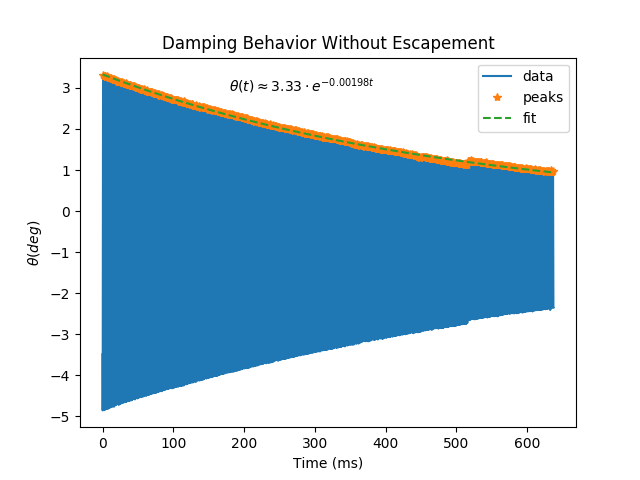
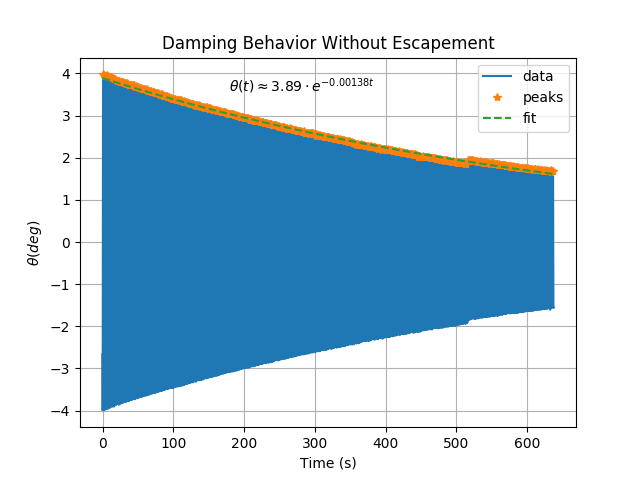
fancier plots for damp

diff --git a/apriltag/parse_3.py b/apriltag/parse_3.py
@@ -14,7 +14,7 @@ import sys
 import argparse
 from scipy.signal import find_peaks_cwt
 
-from utils import proc, rmat
+from utils import proc, rmat, plot_circle
 
 def project2d(vs, ns):
     # vs = vectors
@@ -39,16 +39,12 @@ def reorder(e1, id0):
             midx.append(i0)
     return np.int32(midx), res
 
-def hx(x):
-    #x,y,vx,vy
-    return x[:3]
-
-def fx(x, dt):
-    x,y,z,vx,vy,vz = x
-    x=x+vx*dt
-    y=y+vy*dt
-    z+y+vz*dt
-    return (x,y,z,vx,vy,vz)
+def hide_axis(ax):
+    ax.spines['top'].set_color('none')
+    ax.spines['bottom'].set_color('none')
+    ax.spines['left'].set_color('none')
+    ax.spines['right'].set_color('none')
+    ax.tick_params(labelcolor='w', top='off', bottom='off', left='off', right='off')
 
 def get_pivot_2(pts, r=343.):
     # r = 343
@@ -186,24 +182,52 @@ def plot(f):
     lpeaks = np.log(peaks) # pk(t) = -g*t + log(p0)
     g, a = np.polyfit(times, lpeaks, 1)
 
-    fig, ax = plt.subplots()
+    #fig, ax = plt.subplots()
+    fig = plt.figure()
+
+    ax = fig.add_subplot(111)
+    hide_axis(ax)
+
+    ax0 = fig.add_subplot(211)
+
     print len(th)
     print 'th0', np.max(th)
     print 'thmin', np.min(th)
-    plt.plot(t, th)
-    plt.plot(times, peaks, '*')
-    plt.plot(t, np.exp(a)*np.exp(g*t), '--')
+    ax0.plot(t, th, label='data')
+    ax0.plot(times, peaks, '*', label='peaks')
+    ax0.plot(t, np.exp(a)*np.exp(g*t), '--', label='fit')
+
+    ax0.set_xlabel('Time (s)')
+    ax0.set_ylabel(r'$\theta (deg)$')
+    ax0.legend()#['data', 'peaks', 'fit'])
+    ax0.grid()
+
+    ax10 = fig.add_subplot(223)
+    ax10.set_aspect('equal','datalim')
+    ax10.set_xlabel('x (mm)')
+    ax10.set_ylabel('y (mm)')
+    ax10.plot(x, y)
+    
+    px = np.mean(x)
+    py = np.min(y) + 343
+    pivot = (px, py)
+    plot_circle(pivot, 5, ax=ax10)
+    ax10.grid()
+
+    ax11 = fig.add_subplot(224)
+    ax11.plot(x,y)
+    ax11.grid()
+    ax11.set_xlabel('x (mm)')
+    ax11.set_ylabel('y (mm)')
+    ax11.legend()
 
     print 'gamma : {}'.format(g)
 
     #plt.plot(peaks)
     #plt.rc('text', usetex=True)
-    plt.title('Damping Behavior Without Escapement')
-    plt.xlabel('Time (s)')
-    plt.ylabel(r'$\theta (deg)$')
-    plt.legend(['data', 'peaks', 'fit'])
+    ax.set_title('Damping Behavior Without Escapement')
     print 'g', g
-    plt.text(0.3, 0.95, r'$ \theta(t) \approx %.2f \cdot e^{%.5f t}$' % (np.exp(a), g),
+    ax0.text(0.75, 0.95, r'$ \theta(t) \approx %.2f \cdot e^{%.5f t}$' % (np.exp(a), g),
             verticalalignment='top', horizontalalignment='left',
             transform=ax.transAxes
             )
@@ -225,6 +249,7 @@ if __name__ == "__main__":
     parser.add_argument('filename', type=str)#, nargs='1')
     parser.add_argument('--proc', type=str2bool, default='False')
     parser.add_argument('--outfile', type=str, nargs='?', const=True, default='', help='Data output file')
+    parser.add_argument('--animate', type=str2bool, default='False')
 
     opts = parser.parse_args(sys.argv[1:])
     if opts.proc:

diff --git a/apriltag/utils.py b/apriltag/utils.py
@@ -1,6 +1,7 @@
 import numpy as np
 from filterpy.kalman import UnscentedKalmanFilter as UKF
 from filterpy.kalman import MerweScaledSigmaPoints as MSS
+from matplotlib import pyplot as plt
 import sys
 
 def hx(x):
@@ -108,3 +109,14 @@ def rmat(v0, v1):
     M = (1.0 - c) * np.outer(axis, axis)
     M += np.reshape([c, -s*az, s*ay, s*az, c, -s*ax, -s*ay, s*ax, c],(3,3))
     return np.asarray(M, dtype=np.float32)
+
+#def axis_equal(ax):
+#    11
+    
+def plot_circle(c, r, ax=None):
+    if ax is None:
+        ax = plt.gca()
+    th = np.linspace(-np.pi, np.pi)
+    x = c[0] + r*np.cos(th)
+    y = c[1] + r*np.sin(th)
+    ax.plot(x,y)
